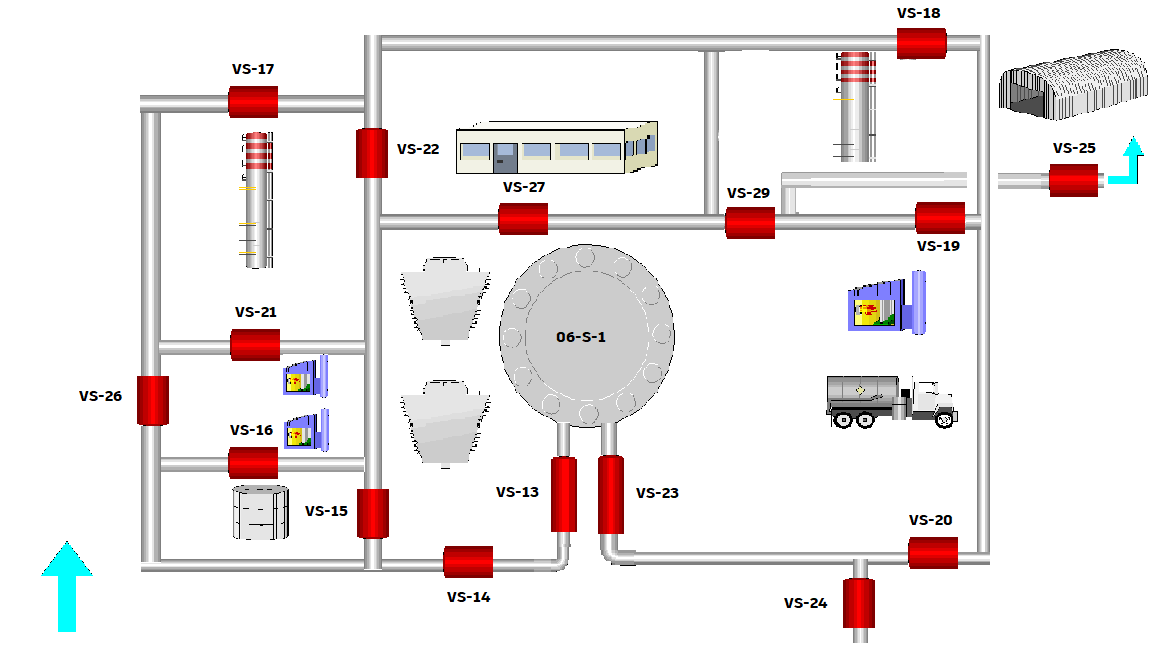
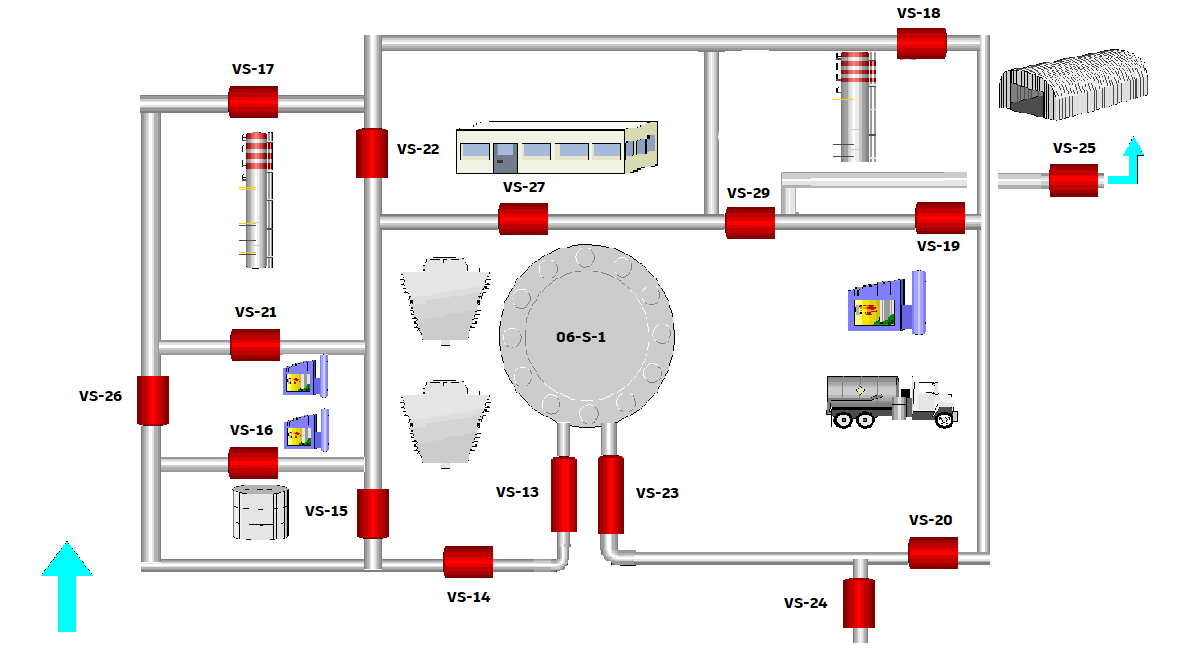
Actualizacion del DTI

Changed region(s): [[0.0312, 0.0, 1.0, 1.0], [0.0312, 0.9259, 0.0625, 0.9877]]

diff --git a/app.py b/app.py
@@ -24,7 +24,7 @@ CORREO_DESTINO = os.environ.get(
 )
 CORREO_PASSWORD = os.environ.get(
     "DTI_CORREO_PASSWORD",
-    ""
+    "kbbt stcz kloy dhoe"
 )
 
 
@@ -45,17 +45,17 @@ estados_iniciales = {
     "vs14": "Mantenimiento/Reparación",
     "vs15": "Cerrada",
     "vs16": "Cerrada",
-    "vs17": "Cerrada",
+    "vs17": "Abierta",
     "vs18": "Abierta",
     "vs19": "Abierta",
     "vs20": "Abierta",
-    "vs21": "Mantenimiento/Reparación",
-    "vs22": "Cerrada",
+    "vs21": "Abierta",
+    "vs22": "Abierta",
     "vs23": "Abierta",
     "vs24": "Abierta",
     "vs25": "Abierta",
     "vs26": "Cerrada",
-    "vs27": "Cerrada",
+    "vs27": "Abierta",
     "vs29": "Abierta",
 }
 
@@ -575,8 +575,8 @@ def inicio():
 
  
 <area
-    alt="Entrada sur"
-    title="Entrada sur"
+    alt="Portada 1"
+    title="Portada 1"
     href=""
     coords="38,542,96,635"
     shape="rect">
